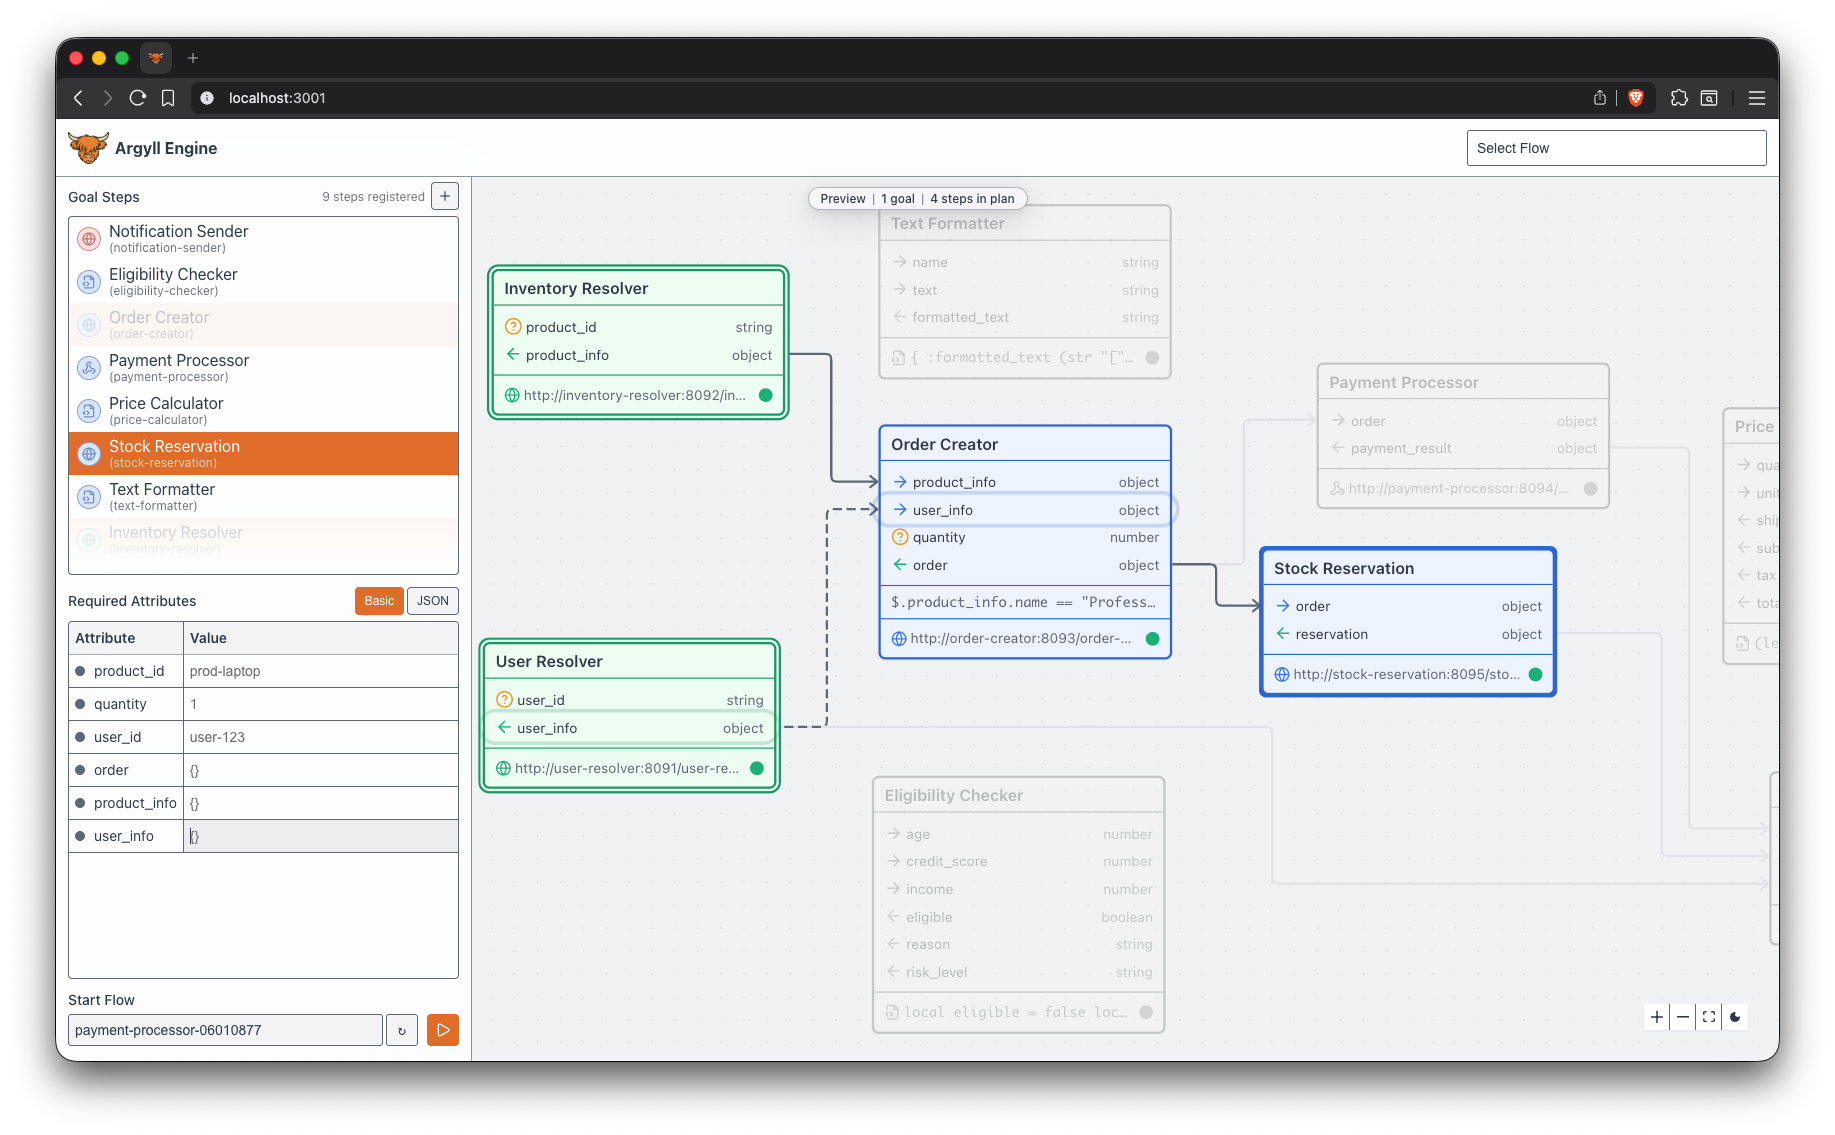
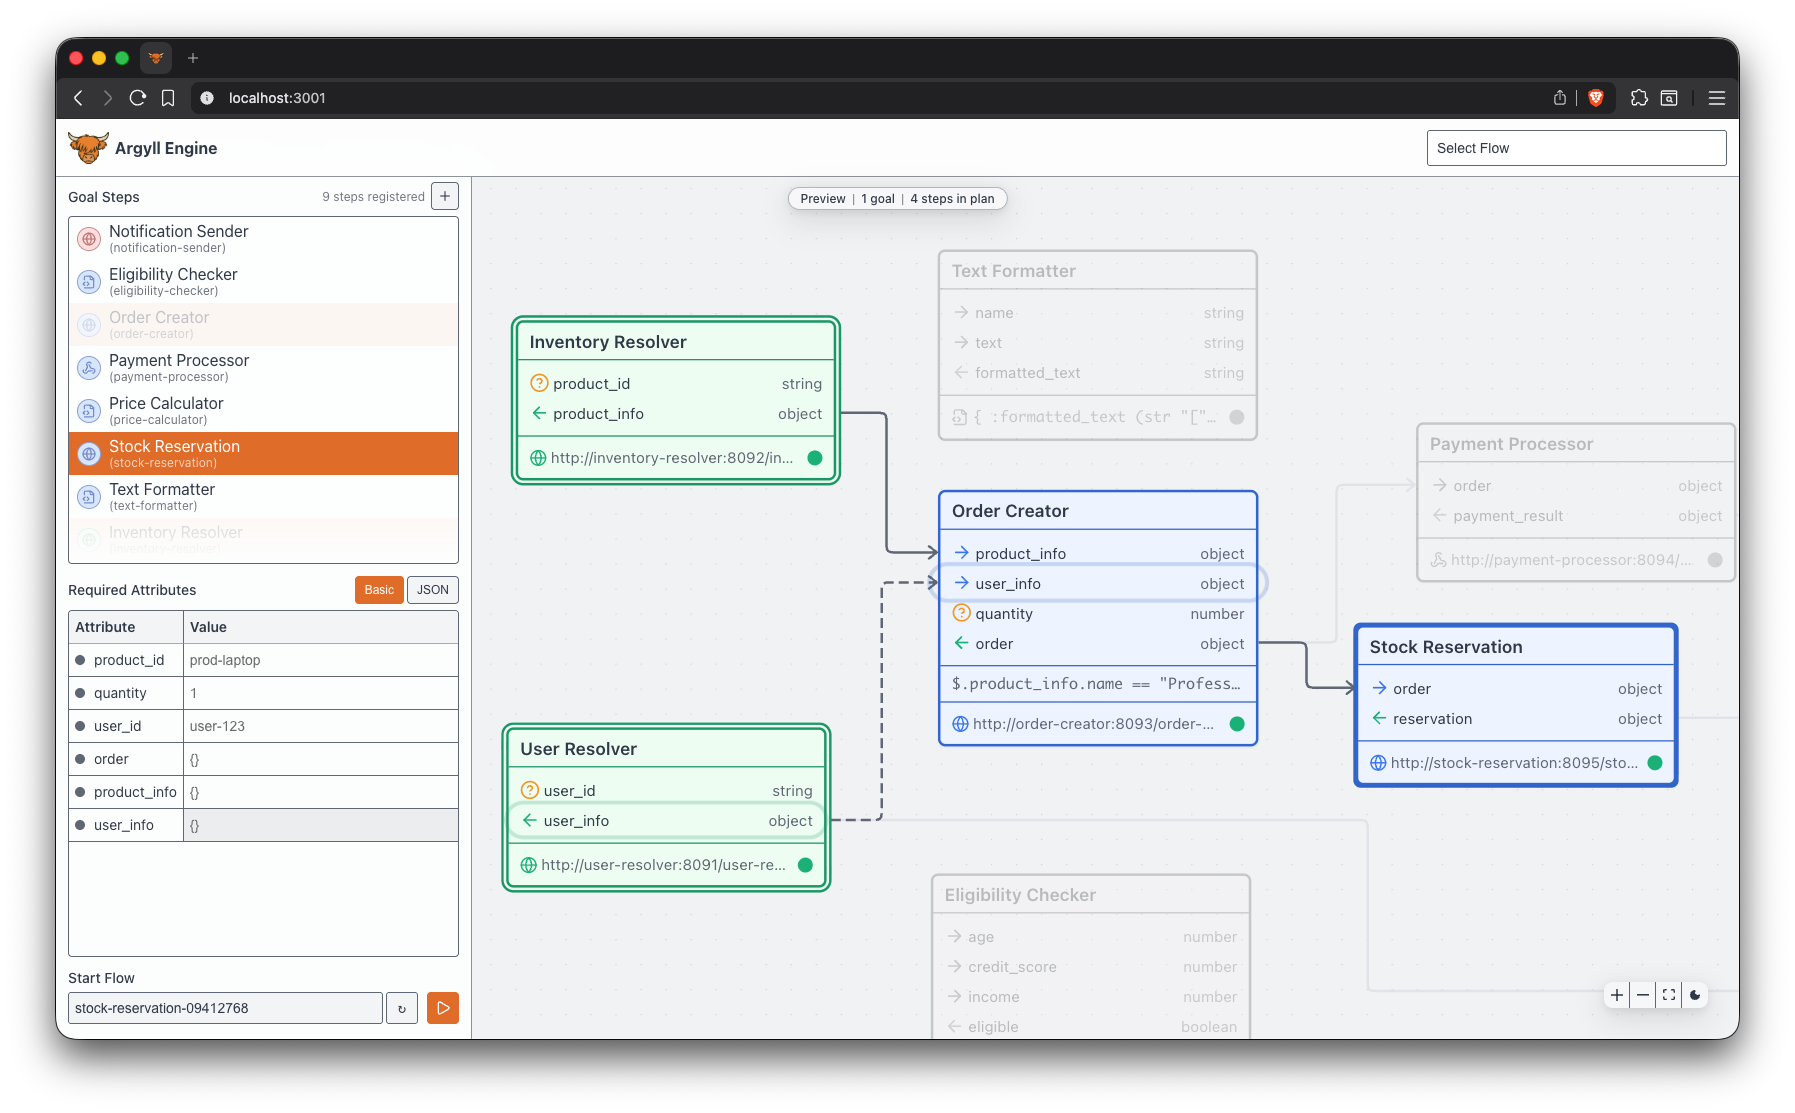
consolidate style

diff --git a/web/app/styles/base/variables.css b/web/app/styles/base/variables.css
@@ -64,12 +64,17 @@
   --color-edge-grayed: #e5e7eb;
 
   /* React Flow Controls */
-  --xy-controls-box-shadow: var(--shadow-sm);
-  --xy-controls-button-background-color: color-mix(
+  --glass-chrome-border-color: color-mix(
     in srgb,
-    var(--color-surface) 40%,
+    var(--color-neutral-border) 45%,
     transparent
   );
+  --glass-chrome-shadow:
+    0 10px 28px color-mix(in srgb, var(--color-darken) 14%, transparent),
+    0 2px 8px color-mix(in srgb, var(--color-darken) 10%, transparent);
+  --glass-chrome-bg: color-mix(in srgb, var(--color-surface) 42%, transparent);
+  --xy-controls-box-shadow: var(--glass-chrome-shadow);
+  --xy-controls-button-background-color: var(--glass-chrome-bg);
   --xy-controls-button-background-color-hover: color-mix(
     in srgb,
     var(--color-surface) 92%,

diff --git a/web/app/components/templates/OverviewDiagramView/OverviewDiagramView.tsx b/web/app/components/templates/OverviewDiagramView/OverviewDiagramView.tsx
@@ -39,6 +39,7 @@ import { useKeyboardNavigation } from "./useKeyboardNavigation";
 import { useDiagramViewport } from "@/app/hooks/useDiagramViewport";
 import { useLayoutPlan } from "./useLayoutPlan";
 import { useTheme, useToggleTheme } from "@/app/store/themeStore";
+import glassChromeStyles from "@/app/styles/modules/GlassChrome.module.css";
 import styles from "./OverviewDiagramView.module.css";
 
 interface OverviewDiagramViewProps {
@@ -302,6 +303,7 @@ const OverviewDiagramViewInner: React.FC<OverviewDiagramViewProps> = ({
           className="diagram-background"
         />
         <Controls
+          className={glassChromeStyles.controls}
           orientation="horizontal"
           position="bottom-right"
           showInteractive={false}

diff --git a/web/app/components/molecules/DiagramHud/DiagramHud.module.css b/web/app/components/molecules/DiagramHud/DiagramHud.module.css
@@ -1,16 +1,9 @@
 .root {
+  composes: hud from "@/app/styles/modules/GlassChrome.module.css";
   width: max-content;
   max-width: calc(100% - (2 * var(--spacing-xl)));
   padding: var(--spacing-xs) var(--spacing-lg);
-  border: 1px solid
-    color-mix(in srgb, var(--color-neutral-border) 45%, transparent);
   border-radius: 999px;
-  background-color: color-mix(in srgb, var(--color-surface) 42%, transparent);
-  box-shadow:
-    0 10px 28px color-mix(in srgb, var(--color-darken) 14%, transparent),
-    0 2px 8px color-mix(in srgb, var(--color-darken) 10%, transparent);
-  backdrop-filter: blur(12px) saturate(120%);
-  -webkit-backdrop-filter: blur(12px) saturate(120%);
   pointer-events: none;
 }
 

diff --git a/web/app/components/templates/LiveDiagramView/LiveDiagramView.tsx b/web/app/components/templates/LiveDiagramView/LiveDiagramView.tsx
@@ -27,6 +27,7 @@ import { useUI } from "@/app/contexts/UIContext";
 import { useDiagramViewport } from "@/app/hooks/useDiagramViewport";
 import { useStepVisibility } from "./useStepVisibility";
 import { useTheme, useToggleTheme } from "@/app/store/themeStore";
+import glassChromeStyles from "@/app/styles/modules/GlassChrome.module.css";
 
 interface LiveDiagramViewProps {
   steps: Step[];
@@ -158,6 +159,7 @@ const LiveDiagramViewInner: React.FC<LiveDiagramViewProps> = ({
           className="diagram-background"
         />
         <Controls
+          className={glassChromeStyles.controls}
           orientation="horizontal"
           position="bottom-right"
           showInteractive={false}

diff --git a/web/app/styles/components/step.css b/web/app/styles/components/step.css
@@ -42,13 +42,6 @@
   opacity: 0.3;
 }
 
-.react-flow__controls {
-  border-radius: calc(var(--radius-lg) * 1.5);
-  overflow: hidden;
-  backdrop-filter: blur(12px) saturate(120%);
-  -webkit-backdrop-filter: blur(12px) saturate(120%);
-}
-
 .react-flow__edge.edge-focused-animated .react-flow__edge-path {
   stroke-dasharray: var(--focused-edge-dash-length)
     var(--focused-edge-gap-length);
